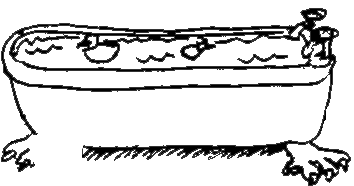
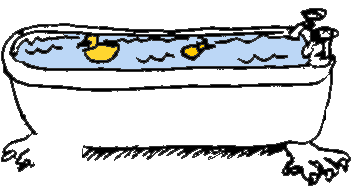
use colour on homepage

Changed region(s): [[0.0311, 0.1613, 0.8701, 0.3763]]

diff --git a/index.php b/index.php
@@ -84,7 +84,7 @@ ob_start(); // Begin output buffering to allow output to be rendered after html 
     <div class='home-section'>
       <img class='home-section-background' src='images/home/desk.png'/>
       <a title='browse the hogipedia' class='home-section-link' href='https://wiki.hogwild.uk' style='left: 36.6%; top: 15.8%; width: 36.2%; height: 25.4%;'>
-	<img src='images/home/computer.png'/>
+	<img src='images/home/computer.gif'/>
       </a>
     </div>
     <div class='home-section'>
@@ -97,7 +97,6 @@ ob_start(); // Begin output buffering to allow output to be rendered after html 
       </a>
     </div>
     
-
     <div class='home-section'>
       <img class='home-section-background' src='images/home/games.png'/>
       <a title='hook-a-duck in the bath' class='home-section-link' href='https://fishing.hogwild.uk' style='left: 24%; top: 48.8%; width: 70.8%; height: 37.2%;'>
